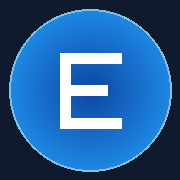
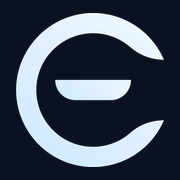
10

diff --git a/index.html b/index.html
@@ -160,15 +160,17 @@
     }
   </style>
   <meta name="apple-mobile-web-app-title" content="Checador EM">
-  <link rel="apple-touch-icon" href="apple-touch-icon.png">
-  <link rel="icon" type="image/png" sizes="32x32" href="favicon-32.png">
-  <link rel="icon" type="image/png" sizes="192x192" href="icon-192.png">
+  <!-- Íconos generados desde logo-electronics.png (?v fuerza refresco del cache) -->
+  <link rel="icon" href="favicon.ico?v=594" sizes="any">
+  <link rel="apple-touch-icon" href="apple-touch-icon.png?v=594">
+  <link rel="icon" type="image/png" sizes="32x32" href="favicon-32.png?v=594">
+  <link rel="icon" type="image/png" sizes="192x192" href="icon-192.png?v=594">
 
   <title>Control de Asistencias - Electronics México</title>
   <link rel="stylesheet" href="https://cdnjs.cloudflare.com/ajax/libs/font-awesome/6.5.1/css/all.min.css" integrity="sha512-DTOQO9RWCH3ppGqcWaEA1BIZOC6xxalwEsw9c2QQeAIftl+Vegovlnee1c9QX4TctnWMn13TZye+giMm8e2LwA==" crossorigin="anonymous" referrerpolicy="no-referrer">
   <script src="https://cdn.jsdelivr.net/npm/chart.js@4.4.0/dist/chart.umd.min.js"></script>
   <script src="https://cdnjs.cloudflare.com/ajax/libs/html2pdf.js/0.10.1/html2pdf.bundle.min.js"></script>
-  <link rel="stylesheet" href="Styles.css?v=593">
+  <link rel="stylesheet" href="Styles.css?v=594">
 
   <!-- Registro del Service Worker — habilita modo standalone + cache offline.
        Solo en HTTPS / localhost (es requerimiento de los navegadores). -->
@@ -200,27 +202,27 @@
 </head>
 <body class="notranslate" translate="no">
 
-<script src="api.js?v=593"></script>
-<script src="Tablas.js?v=593"></script>
-<script src="Mapa.js?v=593"></script>
-<script src="Avatares.js?v=593"></script>
-<script src="Sidebar.js?v=593"></script>
-<script src="Dashboard.js?v=593"></script>
-<script src="KPIGauges.js?v=593"></script>
-<script src="Filtros.js?v=593"></script>
-<script src="Module.js?v=593"></script>
-<script src="RenderModule.js?v=593"></script>
-<script src="Inyectar.js?v=593"></script>
-<script src="IncidenciaEventualidad.js?v=593"></script>
-<script src="Productividad.js?v=593"></script>
-<script src="Girly.js?v=593"></script>
-<script src="ChecadorChoferes.js?v=593"></script>
-<script src="OfflineQueue.js?v=593"></script>
-<script src="Perfil.js?v=593"></script>
-<script src="PushNotifications.js?v=593"></script>
-<script src="WebApp.js?v=593"></script>
-<script src="Oficina.js?v=593"></script>
-<script src="TooltipsGauges.js?v=593"></script>
+<script src="api.js?v=594"></script>
+<script src="Tablas.js?v=594"></script>
+<script src="Mapa.js?v=594"></script>
+<script src="Avatares.js?v=594"></script>
+<script src="Sidebar.js?v=594"></script>
+<script src="Dashboard.js?v=594"></script>
+<script src="KPIGauges.js?v=594"></script>
+<script src="Filtros.js?v=594"></script>
+<script src="Module.js?v=594"></script>
+<script src="RenderModule.js?v=594"></script>
+<script src="Inyectar.js?v=594"></script>
+<script src="IncidenciaEventualidad.js?v=594"></script>
+<script src="Productividad.js?v=594"></script>
+<script src="Girly.js?v=594"></script>
+<script src="ChecadorChoferes.js?v=594"></script>
+<script src="OfflineQueue.js?v=594"></script>
+<script src="Perfil.js?v=594"></script>
+<script src="PushNotifications.js?v=594"></script>
+<script src="WebApp.js?v=594"></script>
+<script src="Oficina.js?v=594"></script>
+<script src="TooltipsGauges.js?v=594"></script>
 
   <!-- Partículas de fondo -->
   <div id="particles"></div>

diff --git a/WebApp.js b/WebApp.js
@@ -1623,7 +1623,7 @@ function forzarDosColumnasMovil() {
 // desplegado, spreadsheet real al que pega, service account, trigger, y los
 // datos de HOY que el backend está viendo. Si frontend y backend no son la
 // misma versión, aquí se ve inmediatamente.
-var FRONTEND_VERSION = 'v593';
+var FRONTEND_VERSION = 'v594';
 
 // ⭐ Normalizador de PIN/ID (espejo del backend): "0055" y 55 son el mismo
 function _normId(v) {

diff --git a/service-worker.js b/service-worker.js
@@ -8,7 +8,7 @@
 //   - Auto-update: cuando sube nueva versión, los dispositivos la reciben al reabrir
 // ============================================================================
 
-const CACHE_VERSION = 'em-checador-v593';
+const CACHE_VERSION = 'em-checador-v594';
 const CACHE_NAME    = CACHE_VERSION;
 
 const APP_SHELL = [
